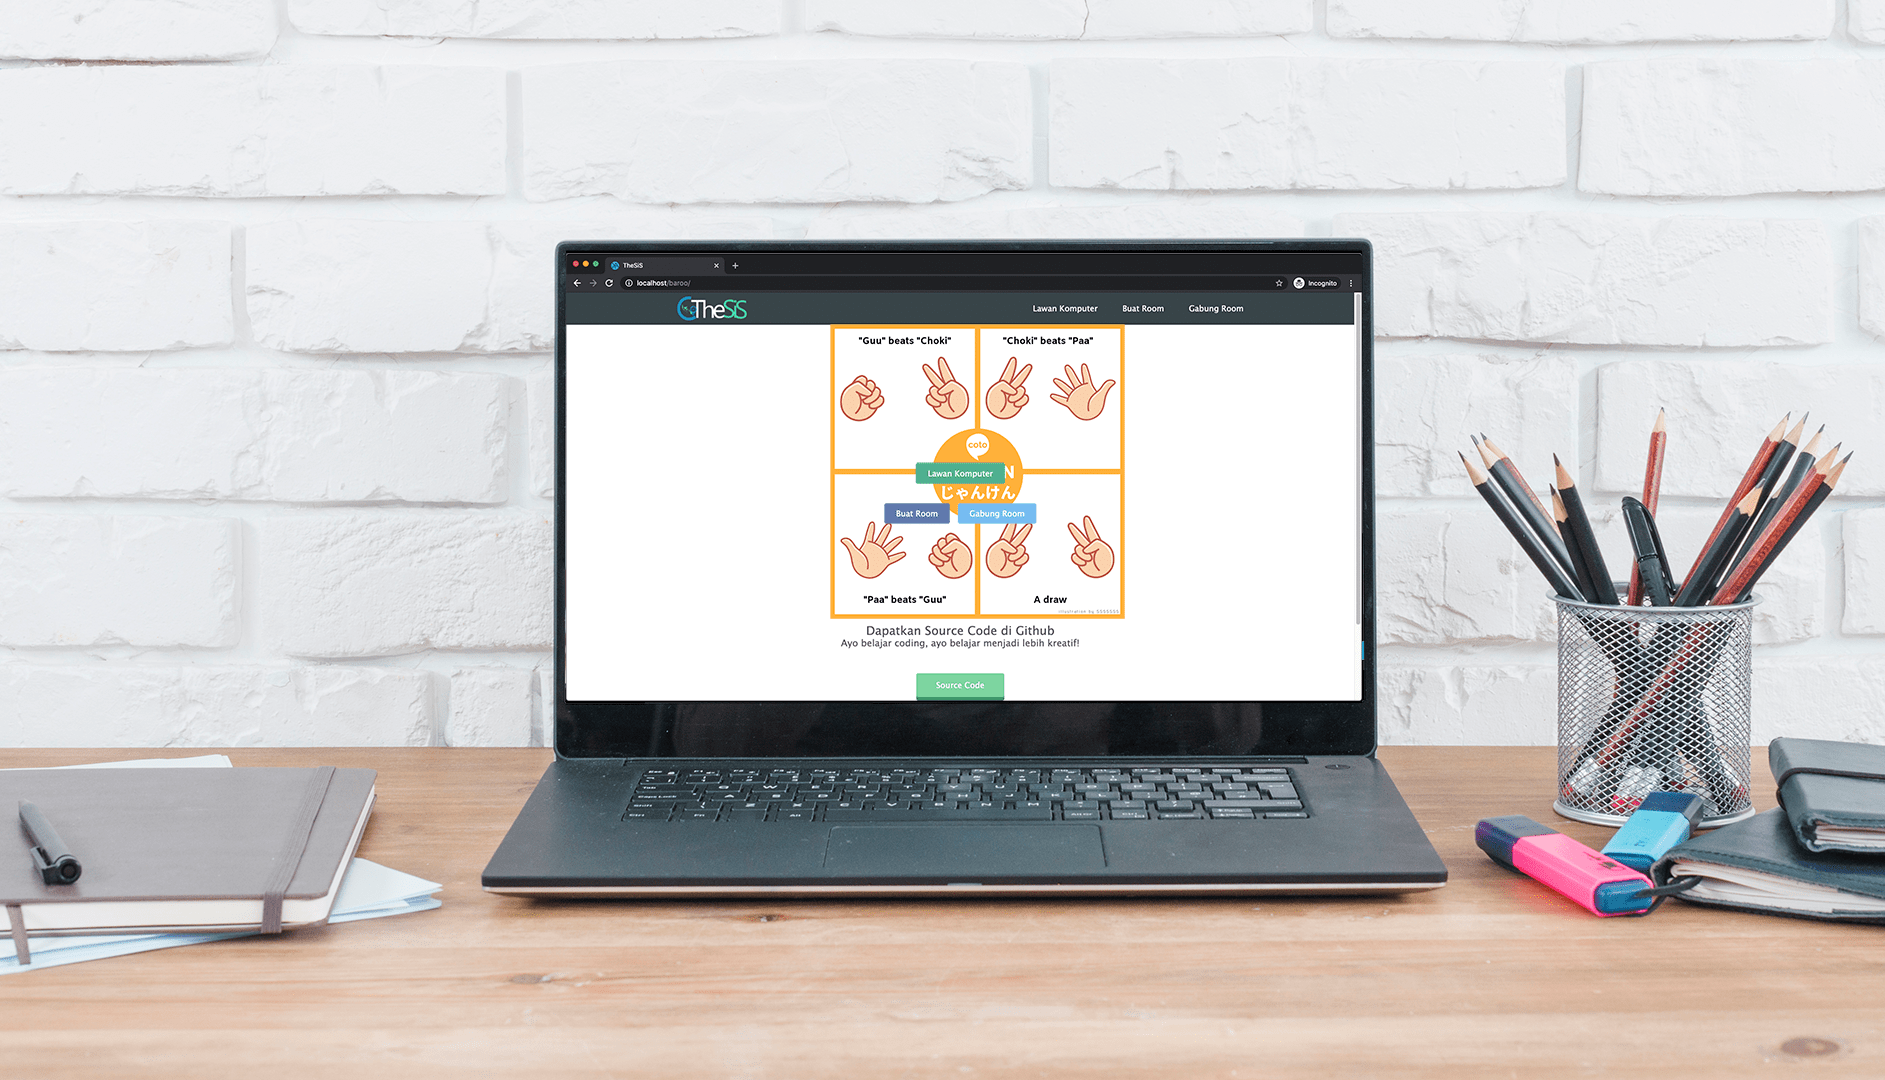
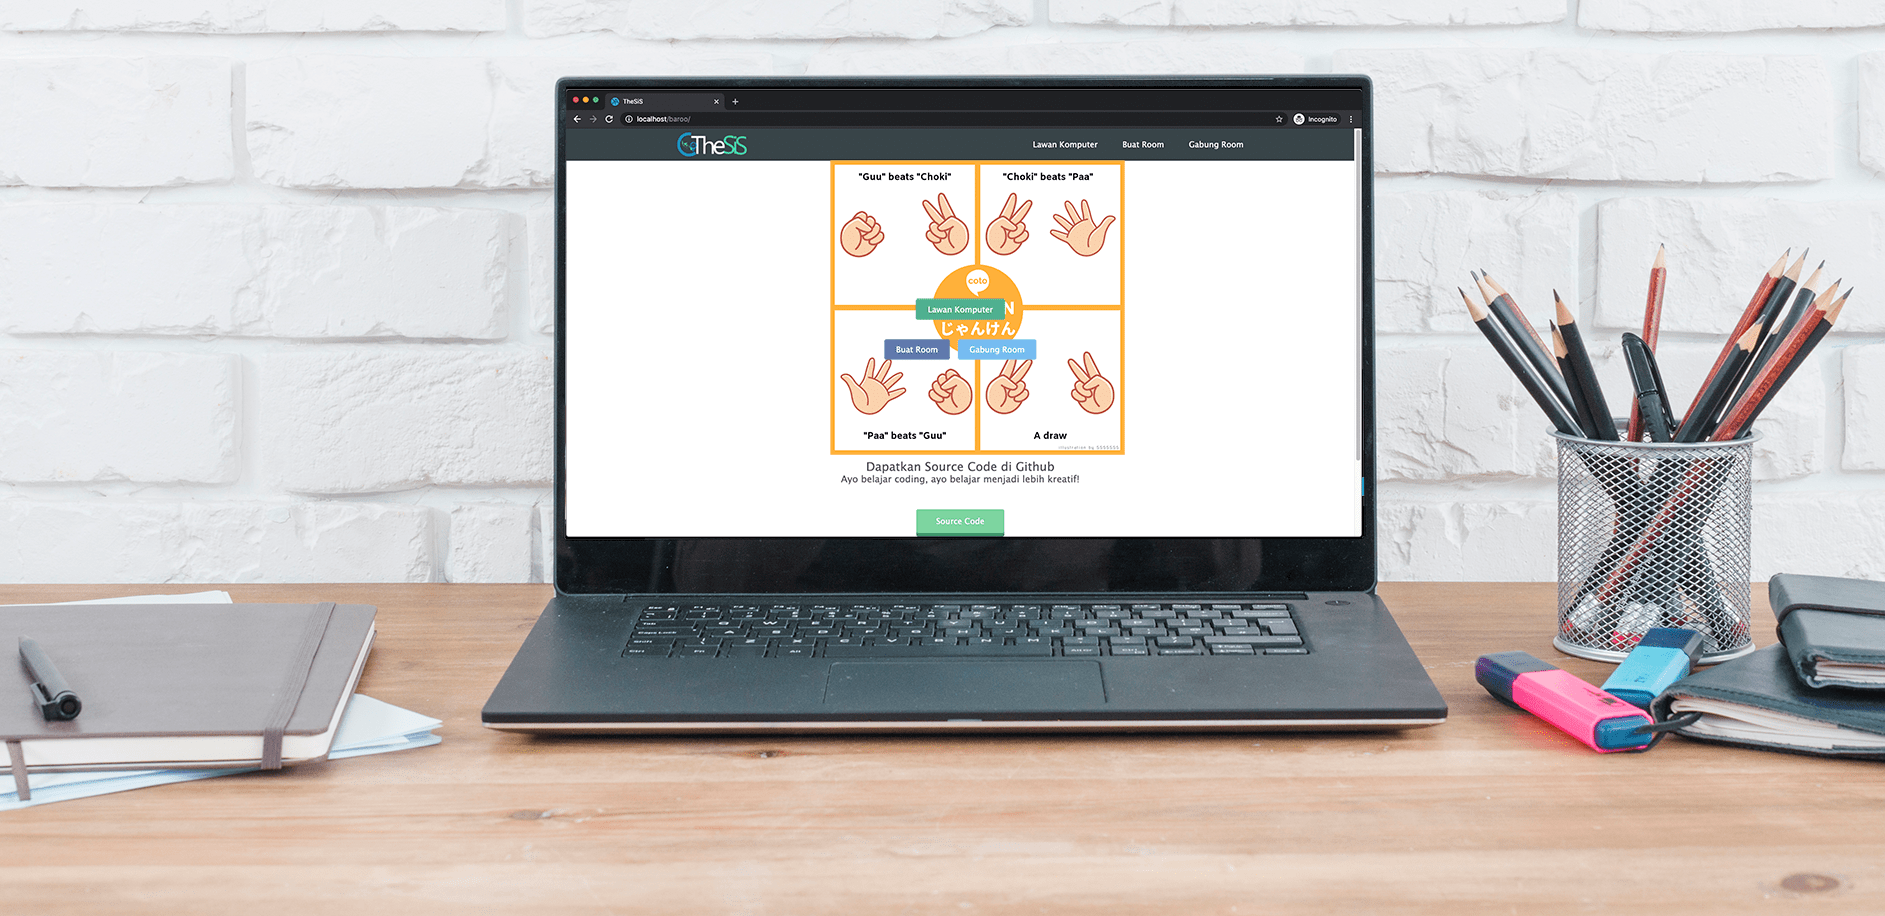
resize landing image

diff --git a/assets/css/style.css b/assets/css/style.css
@@ -41,7 +41,7 @@ a {
 
 .top-wrapper {
   padding: 180px 0 100px 0;
-  background-image: url(https://github.com/kanggara75/baroo/raw/main/assets/images/bg_landing.png);
+  background-image: url(../images/bg_landing.png);
   background-size: cover;
   color: white;
   text-align: center;
